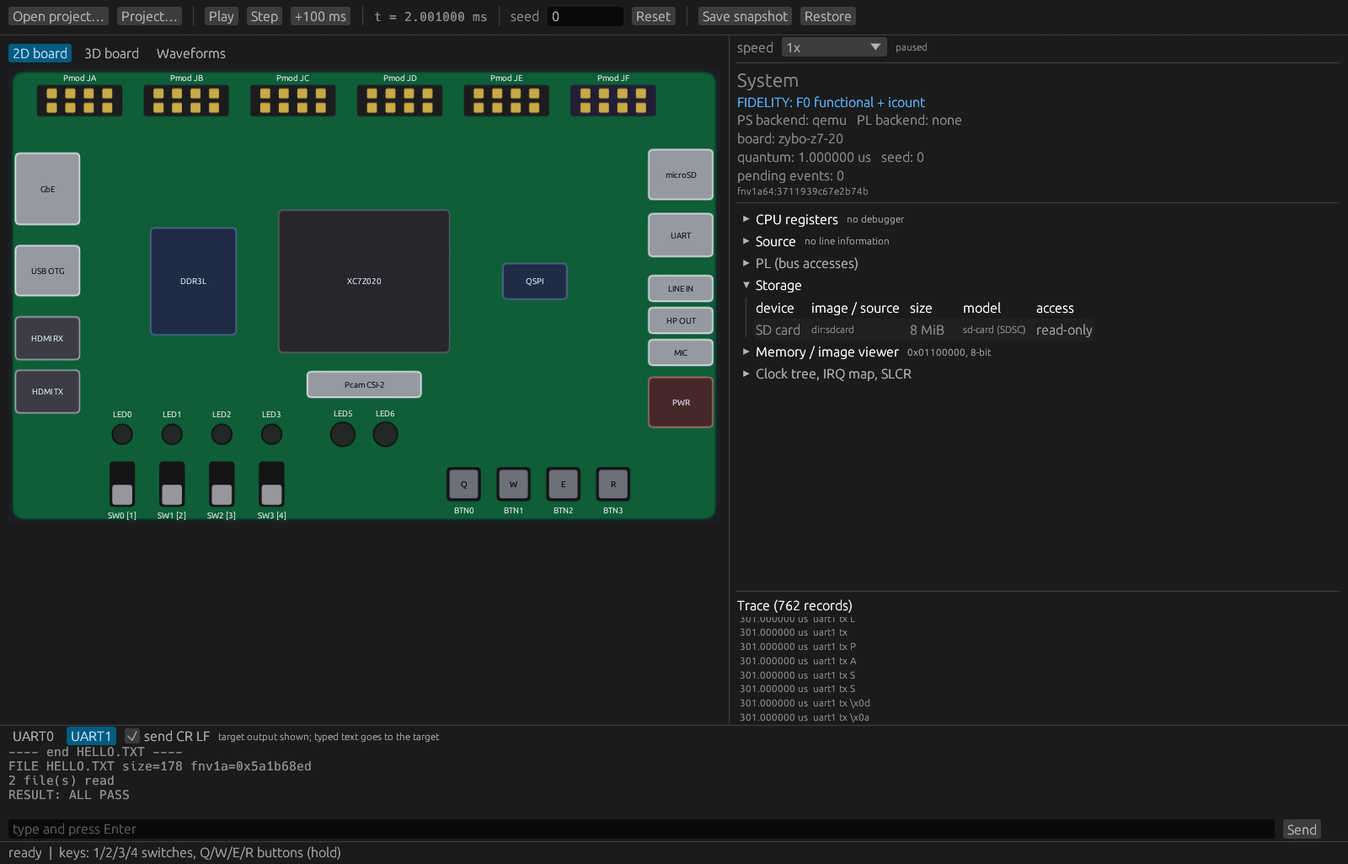
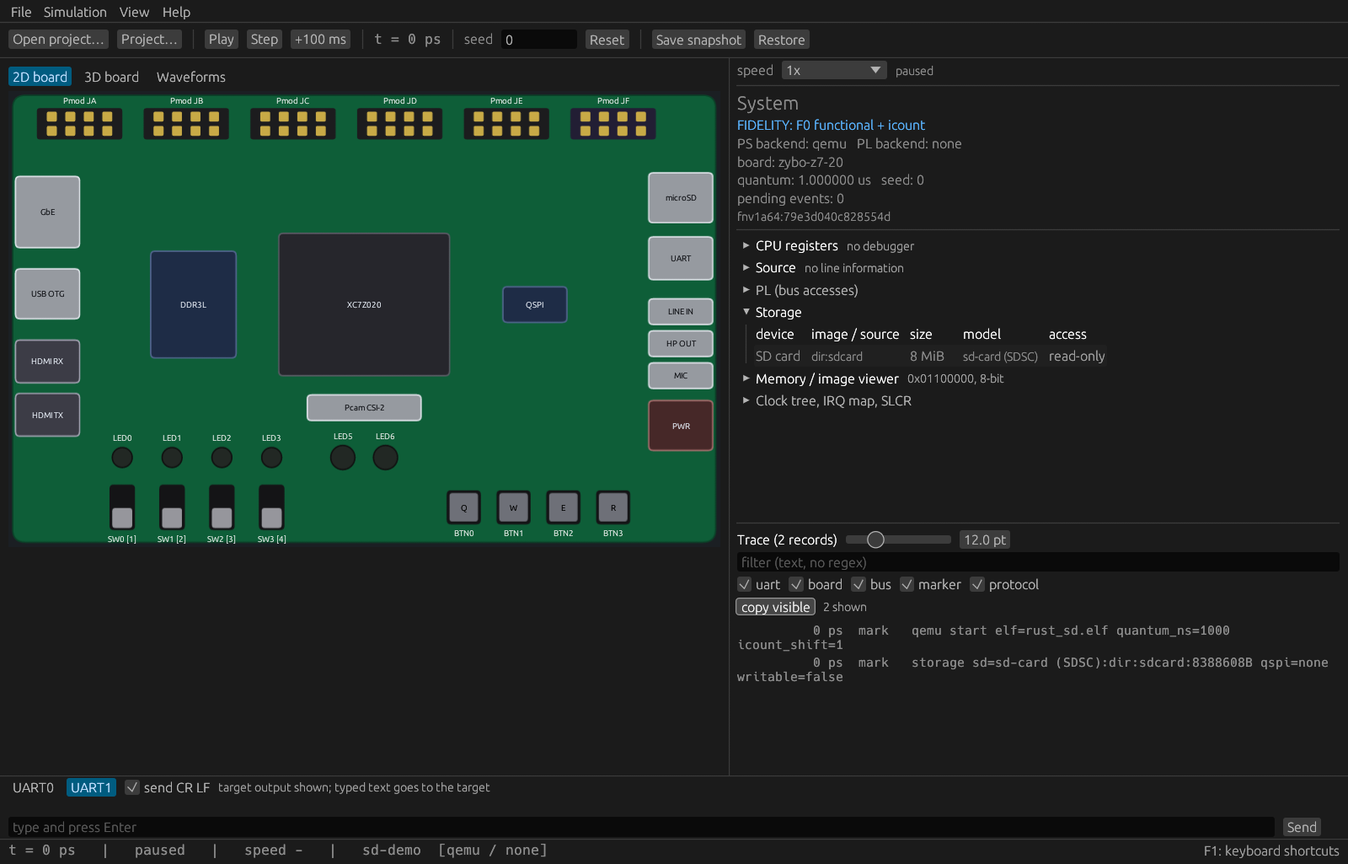
merge p6 GUI branches: fix layout and duplicate controls
- Trace strip in the side panel takes 35% of the height (30-70%, min 120 px)
  with a drag grip; it was 20% and showed one line.
- Waveform default pick skips signals wider than 8 bits (led5/led6 are 24-bit).
- Remove the duplicate Simulation > Speed submenu; the side panel selector
  is the only speed control.
- Status line is cut to the room the right side leaves, so long breakpoint
  text no longer runs under the F1 hint.
- Screenshots: keep five views taken after the merge; README and STATUS
  reference only files that exist.

diff --git a/zynqsim/crates/gui/src/app/shell.rs b/zynqsim/crates/gui/src/app/shell.rs
@@ -4,7 +4,6 @@
 //! [`App::run_action`], so the behaviour is testable without a window.
 
 use super::App;
-use crate::model::SPEEDS;
 use crate::prefs::{self, Prefs, next_scale};
 use eframe::egui::{
     self, Button, Color32, Key, Layout, Modifiers, RichText, ScrollArea, Sense, TextStyle,
@@ -38,7 +37,6 @@ pub enum Action {
     Reset,
     SnapshotSave,
     SnapshotRestore,
-    SetSpeed(usize),
     SetView(View),
     ToggleSide,
     ToggleConsole,
@@ -262,12 +260,6 @@ impl App {
             Action::Reset => self.model.reset(),
             Action::SnapshotSave => self.model.snapshot_save(),
             Action::SnapshotRestore => self.model.snapshot_restore(),
-            Action::SetSpeed(i) => {
-                self.model.speed = i;
-                if self.model.status.playing {
-                    self.model.play();
-                }
-            }
             Action::SetView(v) => {
                 self.view_3d = v == View::Board3d;
                 self.wave_ui.tab = v == View::Waves;
@@ -448,15 +440,6 @@ impl App {
                 if item(ui, "Restore snapshot", "") {
                     acts.push(Action::SnapshotRestore);
                 }
-                ui.separator();
-                ui.menu_button("Speed", |ui| {
-                    for (i, (label, _)) in SPEEDS.iter().enumerate() {
-                        if ui.radio(self.model.speed == i, *label).clicked() {
-                            acts.push(Action::SetSpeed(i));
-                            ui.close();
-                        }
-                    }
-                });
             });
             ui.menu_button("View", |ui| {
                 for (label, v) in [
@@ -547,14 +530,23 @@ impl App {
             .clone()
             .or_else(|| self.model.last_error.clone())
             .map(|e| e.lines().next().unwrap_or("").to_string());
+        let left = format!(
+            "t = {}   |   {state}   |   speed {speed}   |   {project}  [{backends}]",
+            Ps(s.now_ps)
+        );
         ui.horizontal(|ui| {
-            ui.label(RichText::new(format!("t = {}", Ps(s.now_ps))).monospace());
-            ui.separator();
-            ui.label(state);
-            ui.separator();
-            ui.label(format!("speed {speed}"));
-            ui.separator();
-            ui.label(format!("{project}  [{backends}]"));
+            // The left text is cut to the room the right side leaves, so a long
+            // breakpoint message cannot run under the shortcut hint.
+            let right_w = 280.0_f32.min(ui.available_width() * 0.5);
+            let left_w = (ui.available_width() - right_w).max(0.0);
+            ui.allocate_ui_with_layout(
+                egui::vec2(left_w, ui.available_height()),
+                Layout::left_to_right(egui::Align::Center),
+                |ui| {
+                    ui.add(egui::Label::new(RichText::new(&left).monospace()).truncate())
+                        .on_hover_text(&left);
+                },
+            );
             ui.with_layout(
                 Layout::right_to_left(egui::Align::Center),
                 |ui| match error {

diff --git a/zynqsim/crates/gui/src/app.rs b/zynqsim/crates/gui/src/app.rs
@@ -5,15 +5,15 @@ mod dialogs;
 mod media;
 mod memory;
 mod project;
-mod shell;
 mod sections;
+mod shell;
 mod view3d;
 mod wave_view;
 
 use crate::loader::ProjectDraft;
 use crate::model::{Model, SPEEDS, TailFollow, TraceFilter, TraceKind, trace_kind, visible_lines};
-use crate::waves::elide_long_symbols;
 use crate::prefs::Prefs;
+use crate::waves::elide_long_symbols;
 use eframe::egui::{
     self, Align2, Color32, ColorImage, FontId, Key, Rect, RichText, Sense, TextureHandle,
     TextureOptions, pos2, vec2,
@@ -122,6 +122,8 @@ pub struct App {
     trace_follow: TailFollow,
     /// Text size of the trace strip and the console, in points (10..=18).
     font_pt: f32,
+    /// Share of the side panel's height given to the trace strip (dragged with the grip).
+    trace_share: f32,
     // menu bar, status bar, settings
     shell: shell::Shell,
     /// Which side-panel sections are open (remembered between runs).
@@ -212,6 +214,7 @@ impl App {
             },
             trace_follow: TailFollow::default(),
             font_pt: 12.0,
+            trace_share: 0.35,
             shell,
             sections: SectionState::default(),
         }
@@ -346,13 +349,28 @@ impl App {
     fn side_panel(&mut self, ui: &mut egui::Ui) {
         // The sections scroll, so a long one (Source, HDMI) cannot push the
         // trace off the bottom of the window; the trace keeps a strip of its own.
-        let trace_h = (ui.available_height() * 0.2).clamp(120.0, 180.0);
+        let avail = ui.available_height();
+        const GRIP: f32 = 8.0;
+        let trace_h = (avail * self.trace_share).clamp(120.0, (avail - 120.0).max(120.0));
         egui::ScrollArea::vertical()
             .id_salt("side_sections")
-            .max_height((ui.available_height() - trace_h).max(120.0))
+            .max_height((avail - trace_h - GRIP).max(0.0))
             .auto_shrink([false, false])
             .show(ui, |ui| self.side_sections(ui));
-        ui.separator();
+        // Drag grip between the sections and the trace strip.
+        let (rect, grip) =
+            ui.allocate_exact_size(egui::vec2(ui.available_width(), GRIP), egui::Sense::drag());
+        ui.painter().hline(
+            rect.x_range(),
+            rect.center().y,
+            ui.visuals().widgets.noninteractive.bg_stroke,
+        );
+        if grip.hovered() || grip.dragged() {
+            ui.ctx().set_cursor_icon(egui::CursorIcon::ResizeVertical);
+        }
+        if grip.dragged() && avail > 0.0 {
+            self.trace_share = (self.trace_share - grip.drag_delta().y / avail).clamp(0.3, 0.7);
+        }
         self.trace_panel(ui);
     }
 

diff --git a/zynqsim/crates/gui/src/waves.rs b/zynqsim/crates/gui/src/waves.rs
@@ -19,6 +19,10 @@ const CATALOGUE_REFRESH: Duration = Duration::from_millis(500);
 pub const MIN_SPAN_PS: u64 = 100;
 /// Signals a project opens with, at most.
 pub const DEFAULT_SIGNALS: usize = 12;
+
+/// The widest signal the default pick takes: a 24-bit LED bus or a 32-bit
+/// address is shown only when chosen by hand.
+pub const DEFAULT_MAX_WIDTH: u8 = 8;
 /// Signals the picker shows at once (the trace answers at most this many).
 pub const MAX_SHOWN: usize = 128;
 /// Longest symbol shown whole in the trace strip; longer ones are elided.
@@ -98,7 +102,7 @@ pub fn default_signals(catalogue: &[SignalInfo]) -> Vec<String> {
                 if shares && taken >= share {
                     break;
                 }
-                if wanted(&s.name) && !out.contains(&s.name) {
+                if s.width <= DEFAULT_MAX_WIDTH && wanted(&s.name) && !out.contains(&s.name) {
                     out.push(s.name.clone());
                     taken += 1;
                 }
@@ -615,6 +619,19 @@ mod tests {
             last_ps: 0,
             derived: false,
         }
+    }
+
+    #[test]
+    fn default_signals_skip_wide_buses() {
+        let wide = |n: &str, width: u8| SignalInfo { width, ..info(n) };
+        let cat = vec![
+            wide("board.led5", 24),
+            wide("board.led6", 24),
+            wide("board.led0", 1),
+            wide("bus.M_AXI_GP0.addr", 32),
+        ];
+        let d = default_signals(&cat);
+        assert_eq!(d, ["board.led0"], "{d:?}");
     }
 
     #[test]

diff --git a/zynqsim/docs/STATUS.md b/zynqsim/docs/STATUS.md
@@ -323,49 +323,42 @@ front-end table's `unsupported` row.
 | GUI recent projects (last 8, no duplicates, saved to `%APPDATA%\zynqsim\gui.json` or `~/.config/zynqsim/gui.json`) | verified (logic, file round trip in a temp dir) / implemented-untested (menu) | `zynqsim-gui::prefs::tests::{recent_projects_dedupe_move_to_front_and_cap_at_eight, settings_survive_a_save_and_load_in_a_temp_dir}`, `app::shell::tests::recent_projects_open_and_missing_ones_are_dropped`. Automated runs (`--screenshot`, `--exit-after-ms`, `--defaults`, `--theme`) save nothing |
 | GUI examples browser: File > Examples lists every `examples/*/project.toml` (found next to the executable, above it, above the working directory, or in the source tree) and opens one through the background build | verified (discovery, opening) / implemented-untested (menu) | `zynqsim-gui::prefs::tests::examples_discovery_lists_the_repos_examples`, `app::shell::tests::examples_from_the_repo_are_offered_and_open_in_the_background` |
 | GUI theme (dark, light), UI scale (0.8 to 2.0 in steps), readable floors for small, body and monospace text, remembered between runs | verified (logic) / verified (appearance, light theme screenshot) | `app::shell::tests::menu_actions_change_the_view_theme_and_scale`, `prefs::tests::scale_steps_move_one_notch_and_stop_at_the_ends`. Window size is remembered by `main.rs` and was not tested |
-| GUI status bar: simulated time, running / paused / halted at breakpoint, measured speed (sim time per wall time), project and backends, last error (click clears) | verified (appearance: paused state, shown) / implemented-untested (running and halted text, speed) | `app::shell::tests::the_speed_meter_measures_simulated_per_wall_time`; `shell-default.png` shows the paused state only. Neither the running nor the halted text was looked at |
+| GUI status bar: simulated time, running / paused / halted at breakpoint, measured speed (sim time per wall time), project and backends, last error (click clears) | verified (appearance: paused state, shown) / implemented-untested (running and halted text, speed) | `app::shell::tests::the_speed_meter_measures_simulated_per_wall_time`; `default-demo.png` shows the paused state; the halted text is in `rust-debug-source.png`; the running text was not looked at |
 
 | GUI side panel: play-speed selector (0.01x, 0.1x, 1x, 10x, max) and measured sim/wall ratio | verified (model, interaction) / implemented-untested (appearance) | `zynqsim-gui::model::tests::speeds_map_to_ps_per_second_and_start_at_real_time`, `the_measured_ratio_is_simulated_over_wall_time`, `app::tests::the_speed_selector_reaches_the_engine_and_max_runs`. The measured ratio of a real run was not compared with `docs/PERFORMANCE.md` |
 | GUI side panel: collapsible sections (CPU registers, Source, Pmod, HDMI, Audio, Ethernet, Storage, Memory) with one-line summaries when closed; open state saved through eframe storage (`persistence` feature) and read back at start-up | verified (state round trip) / implemented-untested (saving between runs) | `zynqsim-gui::app::sections::tests::*`, `app::tests::open_sections_are_saved_and_restored_through_storage` (save into an in-memory store, restore into a new app). That a closed panel stays closed after a real restart was not checked by hand; `--sections` overrides the saved state for one run |
 | GUI storage table (device, image or folder, size, model, access; writable in a warning colour, read-only tooltip "writes discarded") | verified (rows from the status) / looked at (appearance) | `zynqsim-gui::model::tests::storage_rows_come_from_the_status`, `sizes_are_shown_in_the_largest_exact_unit`; `sd-demo-storage-table.png` (read-only row only: no writable device was photographed) |
-| GUI memory viewer: go-to address (number, or ELF symbol with `+offset` through the symbol query), 8/16/32-bit cells, ASCII column, bytes changed since the last read in orange, follow PC / SP while stopped, copy as hex, clear message without memory access | verified (parsing, cells, change marks, copy text) / looked at (appearance, `--mem-hex`) | `zynqsim-gui::app::memory::tests::*`, `app::tests::the_memory_viewer_says_why_it_has_no_memory`; `rust-debug-registers-memory.png`. The symbol path needs a stopped qemu engine and was not run by a test |
-| GUI CPU registers: N Z C V chips, mode chip, core 1 only when the project declares `[cpu1]`, registers changed since the previous stop in orange | verified (flags, mode, diff) / looked at (core 0 only) | `zynqsim-gui::app::cpu::tests::*` (the diff is `model::changed_registers`); `rust-debug-registers-memory.png` (first stop only, so no change marks shown). No dual-core project was photographed |
+| GUI memory viewer: go-to address (number, or ELF symbol with `+offset` through the symbol query), 8/16/32-bit cells, ASCII column, bytes changed since the last read in orange, follow PC / SP while stopped, copy as hex, clear message without memory access | verified (parsing, cells, change marks, copy text) / looked at (appearance, `--mem-hex`) | `zynqsim-gui::app::memory::tests::*`, `app::tests::the_memory_viewer_says_why_it_has_no_memory`; `rust-debug-source.png`. The symbol path needs a stopped qemu engine and was not run by a test |
+| GUI CPU registers: N Z C V chips, mode chip, core 1 only when the project declares `[cpu1]`, registers changed since the previous stop in orange | verified (flags, mode, diff) / looked at (core 0 only) | `zynqsim-gui::app::cpu::tests::*` (the diff is `model::changed_registers`); `rust-debug-source.png` (first stop only, so no change marks shown). No dual-core project was photographed |
 
-### GUI panel appearance (screenshots, 2026-10-16)
+### GUI panel appearance (screenshots, 2026-10-17, merged p6 GUI)
 
-Appearance was never judged before this review. Each row below was looked at by hand in a real
-window (`zynqsim-gui --screenshot FILE --exit-after-ms 60000`; the PNG is in `docs/screenshots/`).
-"verified" here means that look at the screenshot, not a pixel test: a later change can break a
+Appearance is judged by eye from `--screenshot` PNGs. "verified" here means that a screenshot was
+viewed in the merge review (`docs/screenshots/` keeps five of them); a later change can break a
 layout without any test failing. The smoke test `crates/gui/tests/screenshot.rs` only checks that
-the screenshot path produces a non-uniform PNG.
+the screenshot path produces a non-uniform PNG. The screenshots taken before the merge (2026-10-16)
+were removed because they no longer match the UI; rows that depend on them are marked *not
+re-checked*.
 
 | Panel | Status | Evidence / defects found |
 |---|---|---|
-| 2D board (switches, buttons, LEDs, Pmod pins, labels) | verified (appearance) | `default-demo.png`, `board-demo-2d.png`. No defect seen |
-| 3D board (drag, zoom, reset / top-down buttons) | verified (appearance) | `board-demo-3d.png`. The 3D board has no part labels; not changed |
-| Waveforms tab | verified (appearance) | `demo-waves.png` (three signals chosen with `--wave`). Defect: the tab opens with no signal chosen, so the plot is empty; the text explains how to pick signals, so kept. Second review (2026-10-16, `waves-defaults.png`, `--waves-tab`): defaults show 12 coloured signals with a value column and a `time in ns` ruler label; **fixed**: the zoom hint wrapped in the toolbar (now its own line). Not changed: the default LEDs fill includes the 24-bit `led5`/`led6` buses, which read as noise |
-| Trace strip (filter, toggles, copy, text size) | verified (appearance: toolbar, not the list) / **defect open** | `trace-filtered.png` (`--trace-filter uart`): the filter field, toggles and "20 shown" are visible, but the side panel gives the trace list only about 40 px at 1280x820 / 1600x1025 windows, so one line shows. Cause: `side_panel` sizes the trace strip to 20% of the height (120-180 px) and the new header takes most of it. Not changed here (side-panel owner); the fix is a larger share for the strip |
+| 2D board (switches, buttons, LEDs, Pmod pins, labels) | verified (appearance) | `default-demo.png`, and the `examples/board-demo` run (not kept). No defect seen |
+| 3D board (drag, zoom, reset / top-down buttons) | not re-checked | no screenshot in this review |
+| Waveforms tab (default signals) | verified (appearance) | `waves-defaults.png` (`--waves-tab`): 12 signals, the 8-bit LEDs and switches first. **Fixed**: the default pick skips signals wider than 8 bits, so `led5`/`led6` (24-bit) are no longer chosen. Side effect: the bus-address default (32-bit) is no longer picked either; it can still be chosen by hand. The text and the zoom hint were fixed earlier |
+| Trace strip (filter, toggles, copy, count) | verified (appearance) | `default-demo.png`, `rust-debug-source.png`: about six lines visible in a 1600x1025 window with the default layout (was one line at ~40 px). **Fixed**: the strip takes 35% of the side panel (30-70%, min 120 px), and a grip between sections and trace resizes it. The filtered view itself (`--trace-filter`) was not re-photographed |
+| Source panel at a breakpoint | verified (appearance) | `rust-debug-source.png` (opened with `--sections source=1,memory=1`). Long source lines scroll sideways (earlier fix). Not changed: the `pc in` line shows the mangled Rust symbol over several lines |
+| CPU registers | verified (appearance) | `rust-debug-source.png`: N Z C V chips, mode chip, core 0 only. Earlier: CPU 1 is shown only when the project declares `[cpu1]` |
+| Status line | verified (appearance) | `default-demo.png` (paused), `rust-debug-source.png` (halted at breakpoint). **Fixed**: the status text was drawn under the "F1: keyboard shortcuts" hint; it is now cut with "..." to the room the hint leaves, and the full text is on hover. Not changed: the "speed -" field while paused |
+| Speed selector | verified (appearance) | `default-demo.png`: one copy, in the side panel. **Fixed**: the duplicate Simulation > Speed submenu was removed |
+| Menu bar and top control row | verified (appearance, menus closed) | `default-demo.png`. Play, Step, +100 ms, Reset, snapshot buttons appear in both the Simulation menu and the top row; this is intended (the menu lists every command). The dropdowns were not photographed |
+| Light theme | verified (appearance) | `sd-demo` run with `--theme light` (not kept); the 2D board, side panel, trace and status line were checked, no defect seen |
+| Keyboard shortcuts window (F1) | verified (appearance) | `shell-shortcuts.png`. The list matches the bindings in `shell_keys` and `handle_keys`; no key is bound twice (board keys are letters and digits and ignore Ctrl; shell keys are Ctrl combinations, Space, F1, F5, F6) |
+| Storage table (SD card row in the side panel) | verified (appearance) | `sd-demo-storage-table.png`: read-only SD card row (only read-only was photographed) |
+| Memory / image viewer | not re-checked | the viewer in the Rust-debug run shows "no data read yet" and the controls; the image views were not photographed in this review |
+| Pmod devices, Ethernet, HDMI, Audio, Project window | not re-checked | the screenshots of these panels were removed with the pre-merge set; the earlier clipping fix of the side panel applies to them, but they were not looked at again |
+| Clock tree, IRQ map, SLCR | stub | the panel says it is not available; no appearance check beyond that |
 
-| Menu bar and status line, dark theme, default demo | verified (appearance, menus closed) | `shell-default.png`. The menu dropdowns were not in any screenshot |
-| Light theme | verified (appearance) | `shell-light.png` |
-| Keyboard shortcuts window (F1) | verified (appearance) | `shell-shortcuts.png` (its key column is a bold proportional font, after the monospace one made O and 0 look alike) |
-| Waveforms tab | verified (appearance) | `demo-waves.png` (three signals chosen with `--wave`). Defect: the tab opens with no signal chosen, so the plot is empty; the text explains how to pick signals, so kept. |
-| Source panel at a breakpoint | verified (appearance) | `rust-debug-source.png`. Defects: (1) long source lines wrapped under the line numbers, **fixed**: the listing scrolls sideways; (2) the open panel pushed the trace and every section below it off the bottom of a 1280x820 window, **fixed** (see the side panel row) |
-| CPU 0 / CPU 1 registers | verified (appearance) | `rust-debug-source.png`. Defect: CPU 1 read "(stopped)" with all-zero registers and no explanation, **fixed**: a note says nothing has run on that core. The `pc in` line shows the mangled Rust symbol over three lines; not changed. **Later (p6)**: CPU 1 is hidden unless the project declares `[cpu1]`; flags and mode are chips. Seen in `rust-debug-registers-memory.png` (core 0 only) |
-| Side panel: speed row, section summaries, storage table | looked at (appearance) | `side-panel-demo.png` (demo: speed row, summaries "no debugger", "needs the qemu engine"), `sd-demo-storage-table.png` (storage table, read-only SD card). Not changed after looking: the storage section's summary is empty while open, which is intended |
-| Memory viewer (hex, ASCII, width, follow buttons) | looked at (appearance) | `rust-debug-registers-memory.png`: 8-bit cells, ASCII column, follow PC/SP enabled while stopped. The image views were not re-photographed in this review |
-| Side panel as a whole (scrolling) | verified (appearance) | `rust-debug-source.png`, `hdmi-demo-media.png`, `audio-demo-media.png`. Defect: with Source, HDMI or Audio open, the trace and the lower sections were clipped at 820 px, **fixed**: the sections scroll above a fixed trace strip |
-| Trace panel | verified (appearance) for the earlier screenshots; text size changed since | the lines were the `small` monospace style, about 9 pt; they are now 12 pt by default (slider 10-18 pt, shared with the console). See the Trace strip row above for the open layout defect |
-| Pmod devices (OLED picture, sensor sliders) | verified (appearance) | `oled-demo-pmod.png`, `tmp2-demo-sensors.png`. No defect seen; the picture and the slider with its unit are readable |
-| Ethernet (GEM0) | verified (appearance) | `net-demo-ethernet.png`. No defect seen |
-| Storage (SD card line in the System panel) | verified (appearance) | `sd-demo-storage.png`. There is no storage panel, only one small text line that wraps to two lines; not changed |
-| HDMI (TX picture state, RX source picker, size) | verified (appearance) | `hdmi-demo-media.png`. Defect: clipped with the side panel, **fixed** as above |
-| Audio codec (DAC state, level, LINE IN source) | verified (appearance) | `audio-demo-media.png`. Same clipping defect, **fixed** as above |
-| Project window | verified (appearance) | `project-window.png`. Defect: it opened over the 2D / 3D / Waveforms tab row, **fixed**: it opens below the tabs |
-| Memory / image viewer | implemented-untested (appearance) | not photographed in this review |
-| Clock tree, IRQ map, SLCR | stub | the panel says it is not available (visible in `default-demo.png`); no appearance check beyond that |
-
-Caveats: the screenshots were taken at 125% display scaling (1600 px wide for a 1280 px window).
+Caveats: the screenshots were taken at the window default size and scale, with the default layout.
 Fonts, colours and contrast were judged by eye, not measured.
 
 ## XSA / HWH ingestion (start of milestone P3)

diff --git a/zynqsim/README.md b/zynqsim/README.md
@@ -368,36 +368,27 @@ what the board receives.
 
 ## GUI screenshots
 
-Saved from real windows (`zynqsim-gui --screenshot FILE.png --exit-after-ms 60000`, Windows 11,
-display scaling 125%); the images in `docs/screenshots/` are the ones this section links. Each was
+Saved from real windows (`zynqsim-gui --screenshot FILE.png --exit-after-ms 60000`, Windows 11);
+the images in `docs/screenshots/` are the ones this section links. Each was
 looked at by hand; the layout defects found in that review, and what was changed, are in
 `docs/STATUS.md` (*GUI panel appearance*).
 
-| Default demo (2D board, System panel, trace) | Waveforms tab |
+| Default demo (2D board, System panel, trace strip) | **Waveforms with the default signals** (`--waves-tab`) |
 |---|---|
-| ![Default demo](docs/screenshots/default-demo.png) | ![Waveforms](docs/screenshots/demo-waves.png) |
-| **Source panel at a breakpoint** (`examples/rust-debug`) | **Pmod OLED** (`examples/oled-demo`) |
-| ![Source panel](docs/screenshots/rust-debug-source.png) | ![Pmod OLED](docs/screenshots/oled-demo-pmod.png) |
-| **Waveforms with the default signals** (`--waves-tab`) | **Trace strip filtered** (`--trace-filter uart`) |
-| ![Waveforms defaults](docs/screenshots/waves-defaults.png) | ![Trace filtered](docs/screenshots/trace-filtered.png) |
-
-The window has a menu bar (File: open, recent projects, examples; Simulation; View: 2D, 3D,
-Waveforms, side panel, console, UI scale, theme; Help) and a status line at the bottom (time, run
-state, measured speed, project, backends, last error). Settings and recent projects are kept
-between runs. The shell with the light theme, and its keyboard shortcuts window (F1):
-
-| Default demo with the shell | Light theme |
-|---|---|
-| ![Shell](docs/screenshots/shell-default.png) | ![Light](docs/screenshots/shell-light.png) |
+| ![Default demo](docs/screenshots/default-demo.png) | ![Waveforms defaults](docs/screenshots/waves-defaults.png) |
+| **Source, registers and memory at a breakpoint** (`examples/rust-debug`, `--run-ms 1 --mem-hex --sections source=1,memory=1`) | **Storage table** (`examples/sd-demo`) |
+| ![Source panel](docs/screenshots/rust-debug-source.png) | ![Storage table](docs/screenshots/sd-demo-storage-table.png) |
 | **Keyboard shortcuts (F1)** | |
 | ![Shortcuts](docs/screenshots/shell-shortcuts.png) | |
 
-| **Registers and memory while stopped** (`examples/rust-debug`, `--run-ms 1 --mem-hex`) | **Storage table** (`examples/sd-demo`) |
-|---|---|
-| ![Registers and memory](docs/screenshots/rust-debug-registers-memory.png) | ![Storage table](docs/screenshots/sd-demo-storage-table.png) |
+The window has a menu bar (File: open, recent projects, examples; Simulation; View: 2D, 3D,
+Waveforms, side panel, console, UI scale, theme; Help) and a status line at the bottom (time, run
+state, project and backends, last error or the F1 hint). The play speed is set only in the side
+panel. Settings and recent projects are kept between runs.
 
-The side panel scrolls above a fixed trace strip; with the Source, HDMI or Audio panel open, the
-sections below it are reached by scrolling it. Each section header shows a one-line summary while
+The side panel scrolls above the trace strip, which takes about a third of the panel's height (at
+least 120 px) and can be resized with the grip between the two; with the Source, HDMI or Audio
+panel open, the sections below it are reached by scrolling it. Each section header shows a one-line summary while
 it is closed, and the open or closed state is kept between runs. The speed row above the sections
 offers 0.01x to max and shows the measured simulated-to-wall ratio. `--sections source=0,memory=1`
 sets the sections for one run (automated checks and screenshots); `--mem-hex` opens the memory
